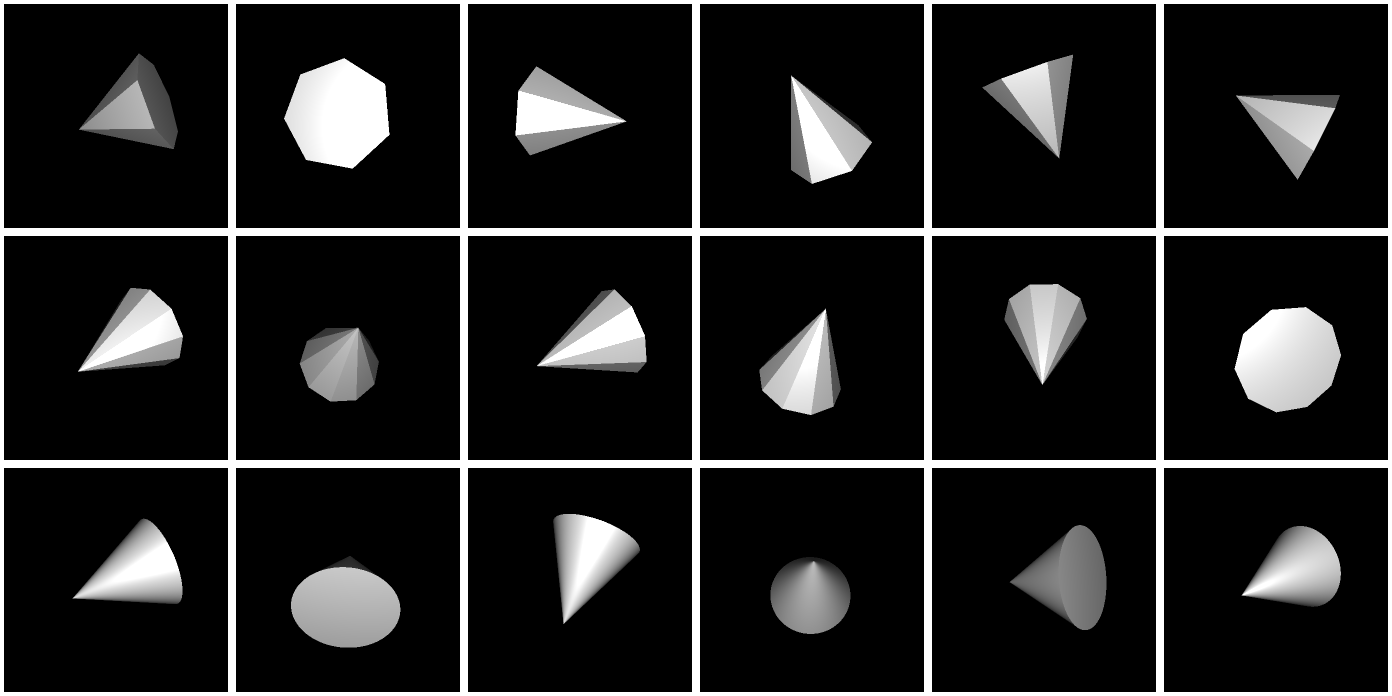
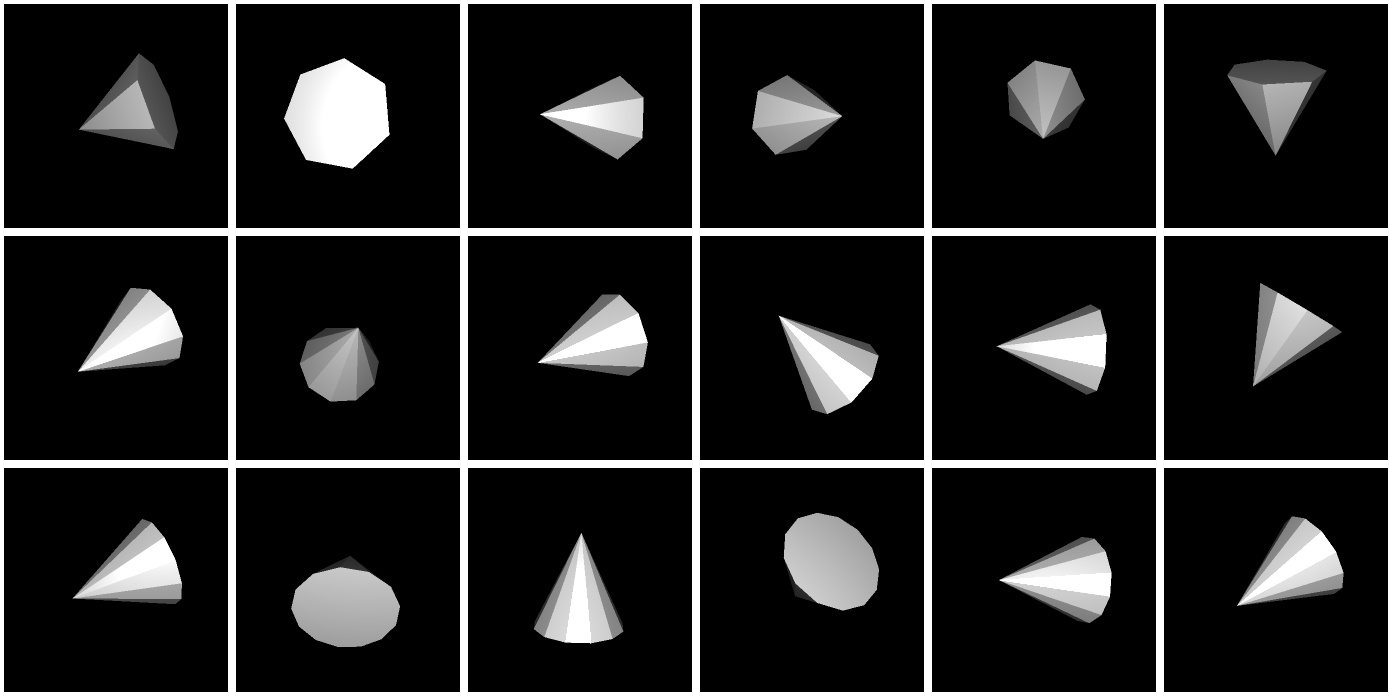
pose3d: SYMSOL-CHILE = pyramids with 7/10/13 sides, runner notebook, STF ranks up to 10
- datasets/symsol_chile.py and --symsol_set 5: pyr7, pyr10, pyr13 (pyr1000 still renders via --shapes);
  test equivalents keep SYMSOL I's 720 padding, a larger set pads to its own maximum.
- models/stf_track.py: MAX_RANK 6 -> 10 (config/validation follow it); the rank tests now run up to 10.
- notebooks/symsol-chile-runner.ipynb: renders the 10 % data in-kernel, then Image2Sphere L = 6 or the
  STF flow with --stf_lmax 10 (one variant per kernel, watchdog per variant).
- report: 13-gon oracle numbers, why the 15 deg margin is blind for n >= 12, why a band-limited
  L = 6 model must guess the turn, planned runs with ETAs.

Claude-Session: https://claude.ai/code/session_01CjS2eYhN4yqstpcbDNJuP7

diff --git a/pose3d/pose3d/datasets/symsol_chile.py b/pose3d/pose3d/datasets/symsol_chile.py
@@ -1,4 +1,4 @@
-"""SYMSOL-CHILE: SYMSOL-style renders of regular n-gonal pyramids, up to the chiliagon (n = 1000).
+"""SYMSOL-CHILE: SYMSOL-style renders of regular n-gonal pyramids (named after the chiliagon, n = 1000).
 
 SYMSOL is the benchmark of Murphy et al., "Implicit-PDF" (ICML 2021, arXiv 2106.05965): untextured solids rendered
 from poses uniform on SO(3), each image labelled with all its equivalent poses. The paper describes 100,000 renders
@@ -8,9 +8,10 @@ renderer, camera or lighting, so those below are matched to the released images 
 Why (reports/symmetry_spectrum.md): an n-gonal pyramid looks the same after a turn of 360/n degrees about its
 axis, so its symmetry group is the cyclic group C_n and its pose density needs the Wigner-D degree l = n to be
 told apart from a cone's. A model that only reaches degrees below n gets the axis right and guesses the turn, an
-error spread evenly over [0, 180/n] degrees: up to 25.7 deg for pyr7, 18 deg for pyr10, 0.18 deg for pyr1000.
+error spread evenly over [0, 180/n] degrees: up to 25.7 deg for pyr7, 18 deg for pyr10, 13.8 deg for pyr13
+(0.18 deg for the chiliagon, which is why it is not in the default set; --shapes pyr1000 renders it).
 
-Shapes (SHAPES): "pyr<n>", a pyramid with a regular n-gon base. Proportions as the SYMSOL cone of
+Shapes (SHAPES, the default set and --symsol_set 5): "pyr<n>", a pyramid with a regular n-gon base. Proportions as the SYMSOL cone of
 datasets/symsol_points.py: apex (0, 0, 1), base vertices at radius 1 in the plane z = -1 (the k-th at angle 2 pi k / n),
 all scaled by 1 / sqrt 2 into the unit ball. Its rotations are the n turns about e3 (pyramid_group); equivalent
 poses of a view at pose R are R g for those g, as in SYMSOL.
@@ -28,7 +29,7 @@ Output, the layout of the official SYMSOL zip, so datasets/symsol.Symsol reads i
     <root>/symsol_chile/{train,test}/images/<shape>_<index:05d>.png
 Poses are uniform on SO(3), seeded per split and shape, so a run regenerates the same data.
 
-usage: python -m pose3d.datasets.symsol_chile --root DIR [--train 45000] [--test 5000] [--shapes pyr7,pyr10,pyr1000]
+usage: python -m pose3d.datasets.symsol_chile --root DIR [--train 45000] [--test 5000] [--shapes pyr7,pyr10,pyr13]
 """
 
 import argparse
@@ -40,7 +41,7 @@ import numpy as np
 import torch
 from PIL import Image
 
-SHAPES = ("pyr7", "pyr10", "pyr1000")
+SHAPES = ("pyr7", "pyr10", "pyr13")
 SIZE = 224
 SUPERSAMPLE = 2
 CAM_DIST = 4.0

diff --git a/pose3d/tests/test_symsol_chile.py b/pose3d/tests/test_symsol_chile.py
@@ -55,15 +55,26 @@ def test_camera_frame_columns_right_rows_down():
 
 def test_symsol_loader_reads_the_chile_set(tmp_path):
     generate(str(tmp_path), "test", 2, log=lambda *_: None)
-    generate(str(tmp_path), "train", 2, shapes=("pyr7", "pyr10", "pyr1000"), log=lambda *_: None)
+    generate(str(tmp_path), "train", 2, log=lambda *_: None)
     test = Symsol(str(tmp_path), train=False, set_number=5, workers=2)
-    assert len(test) == 6 and test.shapes == ("pyr7", "pyr10", "pyr1000")
-    for i, n in zip((0, 2, 4), (7, 10, 1000)):
+    assert len(test) == 6 and test.shapes == ("pyr7", "pyr10", "pyr13")
+    for i, n in zip((0, 2, 4), (7, 10, 13)):
         item = test[i]
-        assert int(item["n_eq"]) == n and item["rots_eq"].shape == (1000, 3, 3)
+        assert int(item["n_eq"]) == n and item["rots_eq"].shape == (720, 3, 3)    # SYMSOL I's padding
         assert torch.allclose(item["rots_eq"][0], item["rot"])
         assert item["img"].shape == (3, SIZE, SIZE) and item["img"].max() > 0.5
     train = Symsol(str(tmp_path), train=True, set_number=5, workers=2)
     rot = train[0]["rot"]                                                              # a random equivalent of pyr7
     eq = torch.from_numpy(np.load(tmp_path / "symsol_chile" / "train" / "rotations.npz")["pyr7"][0])
     assert torch.isclose(eq, rot, atol=1e-6).flatten(1).all(1).any()
+
+
+def test_padding_grows_for_a_set_with_more_equivalents(tmp_path):
+    generate(str(tmp_path), "test", 1, shapes=("pyr1000",), log=lambda *_: None)
+    import pose3d.datasets.symsol as symsol
+    symsol.SHAPE_SETS[99], symsol.SET_DIRS[99] = ("pyr1000",), "symsol_chile"
+    try:
+        item = Symsol(str(tmp_path), train=False, set_number=99, workers=1)[0]
+        assert int(item["n_eq"]) == 1000 and item["rots_eq"].shape == (1000, 3, 3)
+    finally:
+        del symsol.SHAPE_SETS[99], symsol.SET_DIRS[99]

diff --git a/pose3d/tests/test_stf_track.py b/pose3d/tests/test_stf_track.py
@@ -10,12 +10,13 @@ import pytest
 import torch
 
 from pose3d.models.stf_track import (
+    MAX_RANK,
     INJECT_MODES, NormGate, StfTower, apply_rotation, contract_down, n_components, rotate_to_frame,
     stf2, stf_basis, stf_feature_blocks, stf_invariants, stf_next, to_components,
 )
 
 D = torch.float64
-RANKS = range(2, 7)
+RANKS = range(2, MAX_RANK + 1)
 
 
 def random_rotation(n=None, dtype=D, seed=None):
@@ -110,7 +111,7 @@ def test_vector_parity_is_l(l):
     torch.testing.assert_close(flipped, (-1) ** l * S, atol=1e-12, rtol=1e-12)
 
 
-@pytest.mark.parametrize("l", range(2, 7))
+@pytest.mark.parametrize("l", RANKS)
 def test_contract_down_keeps_symmetric_traceless_and_is_equivariant(l):
     S, vs = chain(l)
     v = torch.randn(4, 3, dtype=D)
@@ -144,7 +145,7 @@ def test_rotate_to_frame_broadcasts_over_channels():
     torch.testing.assert_close(out[2, 5], rotate_to_frame(S[2, 5], R[2], 3))
 
 
-@pytest.mark.parametrize("l", range(1, 7))
+@pytest.mark.parametrize("l", range(1, MAX_RANK + 1))
 def test_stf_basis_has_2l_plus_1_orthonormal_columns(l):
     B = stf_basis(l)
     assert B.shape == (3 ** l, n_components(l)) == (3 ** l, 2 * l + 1)
@@ -174,7 +175,7 @@ def test_norm_gate_is_invariant():
                                atol=1e-12, rtol=1e-12)
 
 
-@pytest.mark.parametrize("lmax", [2, 3, 6])
+@pytest.mark.parametrize("lmax", [2, 3, 6, MAX_RANK])
 def test_tower_is_equivariant_and_feedback_is_a_vector(lmax):
     torch.manual_seed(0)
     tower = StfTower(n_vec=12, lmax=lmax, channels=4, n_scalars=6).to(D)

diff --git a/pose3d/pose3d/config.py b/pose3d/pose3d/config.py
@@ -227,7 +227,7 @@ class DataConfig:
     synth_pack_weights: bool = False
     # --dataset symsol: which shape subset (datasets/symsol.py SHAPE_SETS).
     # 1: the standard 5-shape benchmark (tet, cube, icosa, cone, cyl). 2/3/4: the single-shape
-    # near-symmetric variants (sphereX/cylO/tetX). 5: SYMSOL-CHILE, pyramids with 7 / 10 / 1000 base sides,
+    # near-symmetric variants (sphereX/cylO/tetX). 5: SYMSOL-CHILE, pyramids with 7 / 10 / 13 base sides,
     # rendered by datasets/symsol_chile.py into <path_to_datasets>/symsol_chile.
     symsol_set: int = 1
     # First views per shape kept from the train / test split (None: all 45,000 / 5,000). Howell et al.'s
@@ -418,7 +418,8 @@ class FlowConfig:
     # reach the GATr vector field as invariant scalars of the rotor token. Needs vector_field=gatr, cond_tokens=pooled
     # and pose_tokens=rotor (the defaults). Off: the reference model, bit for bit.
     stf_track: bool = False
-    # Highest STF rank (2..6); rank l holds stf_channels tensors of 2l + 1 independent components each.
+    # Highest STF rank (2..10, models/stf_track.MAX_RANK); rank l holds stf_channels tensors of 2l + 1 independent
+    # components each, stored full (3^l floats).
     stf_lmax: int = 3
     stf_channels: int = 8
     # How the vector field sees the tensors S_l and the current rotation matrix R (stf_track.stf_invariants):

diff --git a/pose3d/pose3d/models/__init__.py b/pose3d/pose3d/models/__init__.py
@@ -363,8 +363,10 @@ def validate(cfg: Config) -> None:
 
     if cfg.flow.stf_track and cfg.model.name != "clifford_flow":
         raise ValueError("--stf_track is a CliffordFlow option: use --model clifford_flow")
-    if cfg.flow.stf_track and not 2 <= cfg.flow.stf_lmax <= 6:
-        raise ValueError(f"--stf_lmax must be in 2..6, got {cfg.flow.stf_lmax}")
+    if cfg.flow.stf_track:
+        from pose3d.models.stf_track import MAX_RANK
+        if not 2 <= cfg.flow.stf_lmax <= MAX_RANK:
+            raise ValueError(f"--stf_lmax must be in 2..{MAX_RANK}, got {cfg.flow.stf_lmax}")
 
     vit_ga = cfg.model.name == "vit_baseline" and cfg.vit.vit_pooling_type == "ga"
     if vit_ga and cfg.vit.vit_ga_readout_type == "rotor" and dim != 3:

diff --git a/pose3d/tests/test_stf_flow.py b/pose3d/tests/test_stf_flow.py
@@ -160,7 +160,7 @@ def test_stf_flags_reach_the_model_and_validate():
                       "--no-gatr_compile"])
     model = build_model(cfg, ALGEBRA)
     assert model.stf_tower.lmax == 6 and model.stf_tower.channels == 4 and model.stf_inject == "frame"
-    bad = parse_args(["--path_to_datasets=/tmp", "--stf_track", "--stf_lmax", "7"])
+    bad = parse_args(["--path_to_datasets=/tmp", "--stf_track", "--stf_lmax", "11"])
     with pytest.raises(ValueError):
         build_model(bad, ALGEBRA)
     default = parse_args(["--path_to_datasets=/tmp"])

diff --git a/pose3d/pose3d/datasets/symsol.py b/pose3d/pose3d/datasets/symsol.py
@@ -31,7 +31,7 @@ SHAPE_SETS = {
     2: ("sphereX",),
     3: ("cylO",),
     4: ("tetX",),
-    5: ("pyr7", "pyr10", "pyr1000"),     # SYMSOL-CHILE, generated by datasets/symsol_chile.py
+    5: ("pyr7", "pyr10", "pyr13"),       # SYMSOL-CHILE, generated by datasets/symsol_chile.py
 }
 SET_DIRS = {5: "symsol_chile"}          # directory under the dataset root; "symsol" otherwise
 MAX_EQUIVALENTS = 720                   # test-item padding; a set with more equivalents pads to its own maximum

diff --git a/pose3d/pose3d/models/stf_track.py b/pose3d/pose3d/models/stf_track.py
@@ -31,7 +31,7 @@ from typing import NamedTuple, Tuple
 import torch
 import torch.nn as nn
 
-MAX_RANK = 6   # the largest rank supported (3**6 = 729 floats per channel)
+MAX_RANK = 10  # the largest rank supported (3**10 = 59,049 floats per channel; rank 10 costs ~70x rank 6 on a CPU)
 _EPS = 1e-12
 
 

diff --git a/pose3d/reports/symmetry_spectrum.md b/pose3d/reports/symmetry_spectrum.md
@@ -191,31 +191,64 @@ estimated well. These are different requirements.
 ## SYMSOL-CHILE: pyramids as a benchmark for degree reach
 
 The 1000-gon only tests whether a model learns the density. A pyramid with few base sides `n` also tests the pose: a
-model that cannot reach degree `n` guesses the turn, and that costs up to `180° / n`. Oracle decoding of the truncated
-target (`symmetry_decoding.run_shape`, 200 views, an 80,000-rotation grid):
+model that cannot reach degree `n` guesses the turn, and that costs up to `180° / n`. SYMSOL-CHILE uses `n = 7, 10, 13`.
+Oracle decoding of the truncated target (`symmetry_decoding.run_shape`, 200 views, an 80,000-rotation grid):
 
-| pyramid | `n_l`, `l = 0..12` | median error, `1 ≤ L < n` | median error, `L ≥ n` | margin at `L = n` |
+| pyramid | `n_l`, `l = 0..n+1` | median error, `1 ≤ L < n` | median error, `L ≥ n` | margin at `L = n` |
 |---|---|---|---|---|
-| 7-gon (C_7) | 1 1 1 1 1 1 1 3 3 3 3 3 3 | 13.3° | 1.5° | 2.59 |
-| 10-gon (C_10) | 1 1 1 1 1 1 1 1 1 1 3 3 3 | 9.7° | 1.4° | 3.86 |
+| 7-gon (C_7) | 1 ×7, then 3 3 | 13.3° | 1.5° | 2.59 (≈ 0 below) |
+| 10-gon (C_10) | 1 ×10, then 3 3 | 9.7° | 1.4° | 3.86 (≈ 0 below) |
+| 13-gon (C_13) | 1 ×13, then 3 3 | 7.3° | 1.4° | 6.64 (not informative, see below) |
 
-Below `L = n` the error is a uniform guess of the turn over `[0, 180°/n]`, whose median is `90°/n` (12.9° / 9°). The
-margin is ≈ 0 there (0.001–0.015, grid effect), because poses on the same ring more than 15° from an equivalent tie
-with it.
+Below `L = n` the error is a uniform guess of the turn over `[0, 180°/n]`, whose median is `90°/n` (12.9° / 9° /
+6.9°). For the 7- and 10-gon the margin is ≈ 0 there (0.001–0.015, grid effect): poses on the same ring more than 15°
+from an equivalent tie with it. For the 13-gon the 15° margin cannot see the turn at all: equivalents are 27.7° apart, so
+every pose on the ring is within 13.8° of one and none counts as "far". Its margin is positive from `L = 1` and only
+measures how sharp the axis is. The margin needs a threshold below `180°/n` for `n ≥ 12`; the error does not.
 
-**The dataset.** SYMSOL is the benchmark of Murphy et al., *Implicit-PDF* (ICML 2021, arXiv 2106.05965). The paper specifies the shapes, uniform random poses and the equivalent-pose labels, and 100,000 renders per shape (the released files have 50,000). It does not give the renderer, camera or lighting, so SYMSOL-CHILE matches those to the released images by eye. `datasets/symsol_chile.py` renders SYMSOL-style images of the pyramids `pyr7`, `pyr10` and `pyr1000`
-(the chiliagon), shaped like the SYMSOL cone. Images are 224 × 224, an untextured grey solid on black, a point light at
-the camera, slight perspective. The renderer ray-casts the pyramid's `n + 1` face planes exactly; a pyramid is convex,
-so no mesh rasteriser is needed. The output uses SYMSOL's file layout, and `datasets/symsol.Symsol` reads it as
-`--symsol_set 5` from `<path_to_datasets>/symsol_chile/`. Test items are padded to 1000 equivalents for this set only;
-SYMSOL I stays at 720. `tests/test_symsol_chile.py` checks the geometry, the camera frame (columns = `e1`, rows down =
-`e2`), that every labelled equivalent pose renders the same image while half a step does not, and the loader.
+**Prediction for a band-limited model.** Image2Sphere outputs logits `f(R) = Σ_{l ≤ L} <Ψ^l, D^l(R)>` and trains
+with a cross-entropy over a rotation grid, with a uniformly drawn equivalent label. For an `n`-gon with `n > L` it
+cannot do better than ignoring the turn. On each ring of turns `φ` about the axis, `f = f_0 + g(φ)`, where `f_0` does
+not depend on `φ` and `g` has only frequencies `1 ≤ |m| ≤ L < n`. The expected log-likelihood is
+`(1/n) Σ_k f(φ_0 + 2πk/n) − log Z`. The average over the `n` equally spaced turns removes `g`, because each of its
+frequencies sums to zero. Meanwhile `log Z ≥` its value at `g = 0`, by Jensen's inequality (`∫ e^{f_0 + g} dφ ≥
+2π e^{f_0}` when `g` averages to zero). So the optimum is `g = 0`: the model's density is uniform along the ring, and
+its argmax guesses the turn. With `L = 6` that holds for all three pyramids. The predicted median errors are
+12.9° / 9° / 6.9°, against about 1–2° for a model that reaches `l = n`.
 
-![SYMSOL-CHILE samples: rows pyr7, pyr10, pyr1000](figures/symmetry_spectrum/symsol_chile_samples.png)
+**The dataset.** SYMSOL is the benchmark of Murphy et al., *Implicit-PDF* (ICML 2021, arXiv 2106.05965). The paper
+specifies the shapes, uniform random poses and the equivalent-pose labels, and 100,000 renders per shape (the released
+files have 50,000). It does not give the renderer, camera or lighting, so SYMSOL-CHILE matches those to the released
+images by eye. `datasets/symsol_chile.py` renders SYMSOL-style images of the pyramids `pyr7`, `pyr10` and `pyr13`,
+shaped like the SYMSOL cone; the chiliagon `pyr1000` that names the set renders with `--shapes pyr1000`. Images are
+224 × 224, an untextured grey solid on black, a point light at the camera, slight perspective. The renderer ray-casts
+the pyramid's `n + 1` face planes exactly; a pyramid is convex, so no mesh rasteriser is needed. The output uses
+SYMSOL's file layout, and `datasets/symsol.Symsol` reads it as `--symsol_set 5` from
+`<path_to_datasets>/symsol_chile/`. Test items keep SYMSOL I's padding of 720 equivalents; a set with more (the
+chiliagon) pads to its own maximum. `tests/test_symsol_chile.py` checks the geometry, the camera frame (columns = `e1`,
+rows down = `e2`), that every labelled equivalent pose renders the same image while half a step does not, and the
+loader.
 
-Rendering cost on this 4-core CPU: about 40 images/s for `pyr7` and `pyr10`, and 2.5 images/s for `pyr1000` (1001 face
-planes per ray). SYMSOL's size (45,000 train + 5,000 test views per shape) is therefore about 6 h of CPU, nearly all of
-it `pyr1000`, and about 660 MB of PNG.
+![SYMSOL-CHILE samples: rows pyr7, pyr10, pyr13](figures/symmetry_spectrum/symsol_chile_samples.png)
+
+Rendering cost on this 4-core CPU: about 40 images/s for these pyramids (2.5 images/s for the chiliagon, 1001 face
+planes per ray). The 10 % setting (4,500 training + 1,000 scored test views per shape, 16,500 images) takes a few
+minutes on a GPU, so `notebooks/symsol-chile-runner.ipynb` renders it inside each training kernel.
+
+**Planned runs** (`notebooks/symsol-chile-runner.ipynb`, one variant per kernel, the 10 % protocol of the
+`symsol1_10pct_*` runs: ResNet-50, AdamW, 40 epochs, batch 64):
+
+| variant | model | reaches | prediction | est. RTX Pro 6000 / T4 |
+|---|---|---|---|---|
+| `chile_10pct_i2s_l6_adamw` | Image2Sphere, `--lmax 6` | `l ≤ 6` | turn guessed on all three: ≈ 12.9° / 9° / 6.9° | ~25 min / ~2 h |
+| `chile_10pct_gatr_stf_l10` | Clifford Flow + STF track, `--stf_lmax 10` | tensors up to rank 10 | can reach the 7- and 10-gon, not the 13-gon | ~45–75 min / ~4–6 h |
+
+The STF flow is not a band-limited readout, so the prediction for it is weaker. The GATr vector field can build higher
+degrees nonlinearly, and on SYMSOL I the plain flow stalled on the polyhedra (`symsol_p1_stall.md`). For it
+the experiment measures, rather than tests, how far the STF track helps. `MAX_RANK` of `models/stf_track.py` was
+raised from 6 to 10 for this run; the rank tests (symmetric, traceless, equivariant, basis of `2l + 1` vectors) pass up
+to rank 10. Rank 10 costs about 70× rank 6 inside the track on a CPU (11 s vs 0.15 s for a batch of 64, forward and
+backward).
 
 ## The general case
 

diff --git a/pose3d/README.md b/pose3d/README.md
@@ -7,7 +7,7 @@ Setup and how to run: [`USAGE.md`](USAGE.md). Results: [`reports/`](reports/). R
 
 | Status | Idea | Description |
 |---|---|---|
-| done | SYMSOL-CHILE dataset generator | `datasets/symsol_chile.py`: SYMSOL-style renders of pyramids with 7 / 10 / 1000 base sides (the chiliagon), read by the SYMSOL loader as `--symsol_set 5`. An n-gon pyramid needs Wigner-D degree l = n: below it, oracle decoding guesses the turn (13.3° / 9.7° median for n = 7 / 10, 1.4° once L >= n). The data itself is not generated yet (about 6 h CPU). [report](reports/symmetry_spectrum.md#symsol-chile-pyramids-as-a-benchmark-for-degree-reach) |
+| ready | SYMSOL-CHILE: Image2Sphere L = 6 vs STF flow L = 10 | `datasets/symsol_chile.py`: SYMSOL-style renders of pyramids with 7 / 10 / 13 base sides, read as `--symsol_set 5`; an n-gon pyramid needs Wigner-D degree l = n, so a model below it guesses the turn (oracle: 13.3° / 9.7° / 7.3° median, 1.4° once L >= n). Runner `notebooks/symsol-chile-runner.ipynb` renders the 10 % data in-kernel; `--stf_lmax` now goes up to 10. Not launched yet: needs pool credentials and approval (~25 min + ~45-75 min on RTX). [report](reports/symmetry_spectrum.md#symsol-chile-pyramids-as-a-benchmark-for-degree-reach) |
 | done | Which irreps a symmetric shape needs | `probes/symmetry_spectrum/`: the number of degree-l invariants n_l of each SYMSOL shape's symmetry group (Wigner-D projectors, checked against characters). Lowest nonzero degree 3 / 4 / 6 / 1 / 2 (tet / cube / icosa / cone / cyl); no shape needs more than l = 6 for a non-uniform density, but telling C_n or D_n apart from the continuous symmetry needs l = n: a 1000-gonal pyramid is a cone for every l < 1000. [report](reports/symmetry_spectrum.md) |
 | done | Two-tower Clifford Flow: STF tensor track on SYMSOL I (10 %) | `--stf_track --stf_lmax 3\|6`: a second feature track of symmetric traceless Cartesian tensors (ranks 2..L, the degree-l irreps that multivectors cannot hold; CliffordSTF, arXiv 2606.29584) built from the condition vectors and injected into the GATr vector field as invariants of the current rotor, against the unchanged reference model under the `symsol1_10pct_*_i2s_adamw` protocol, 40 epochs. The reference flow never leaves the zero-velocity stall (median 47.3 deg, flat for 40 epochs); both STF arms leave it after ~20 epochs and end at **acc@15 0.046** (L = 3) / 0.037 (L = 6), median 43.7 / 44.9 deg (32 samples). Small in absolute terms (Image2Sphere: acc@15 1.00), but a qualitative difference from the control. Next: `--symsol_nearest_coupling` for both arms. [report](reports/symsol_stf/README.md) |
 | done | Image2Sphere baseline on SYMSOL I (10 %) | `--model i2s_real` under the `symsol1_10pct_*` protocol: **3.2 deg** mean of per-shape nearest-equivalent medians (AdamW/cosine; 4.5 deg with the paper's SGD recipe), log-likelihood 3.48, against 19.9 deg / 3.24 for the best flow run. The paper itself gives no rotation error on SYMSOL. [report](reports/i2s_symsol1_10pct.md) |
